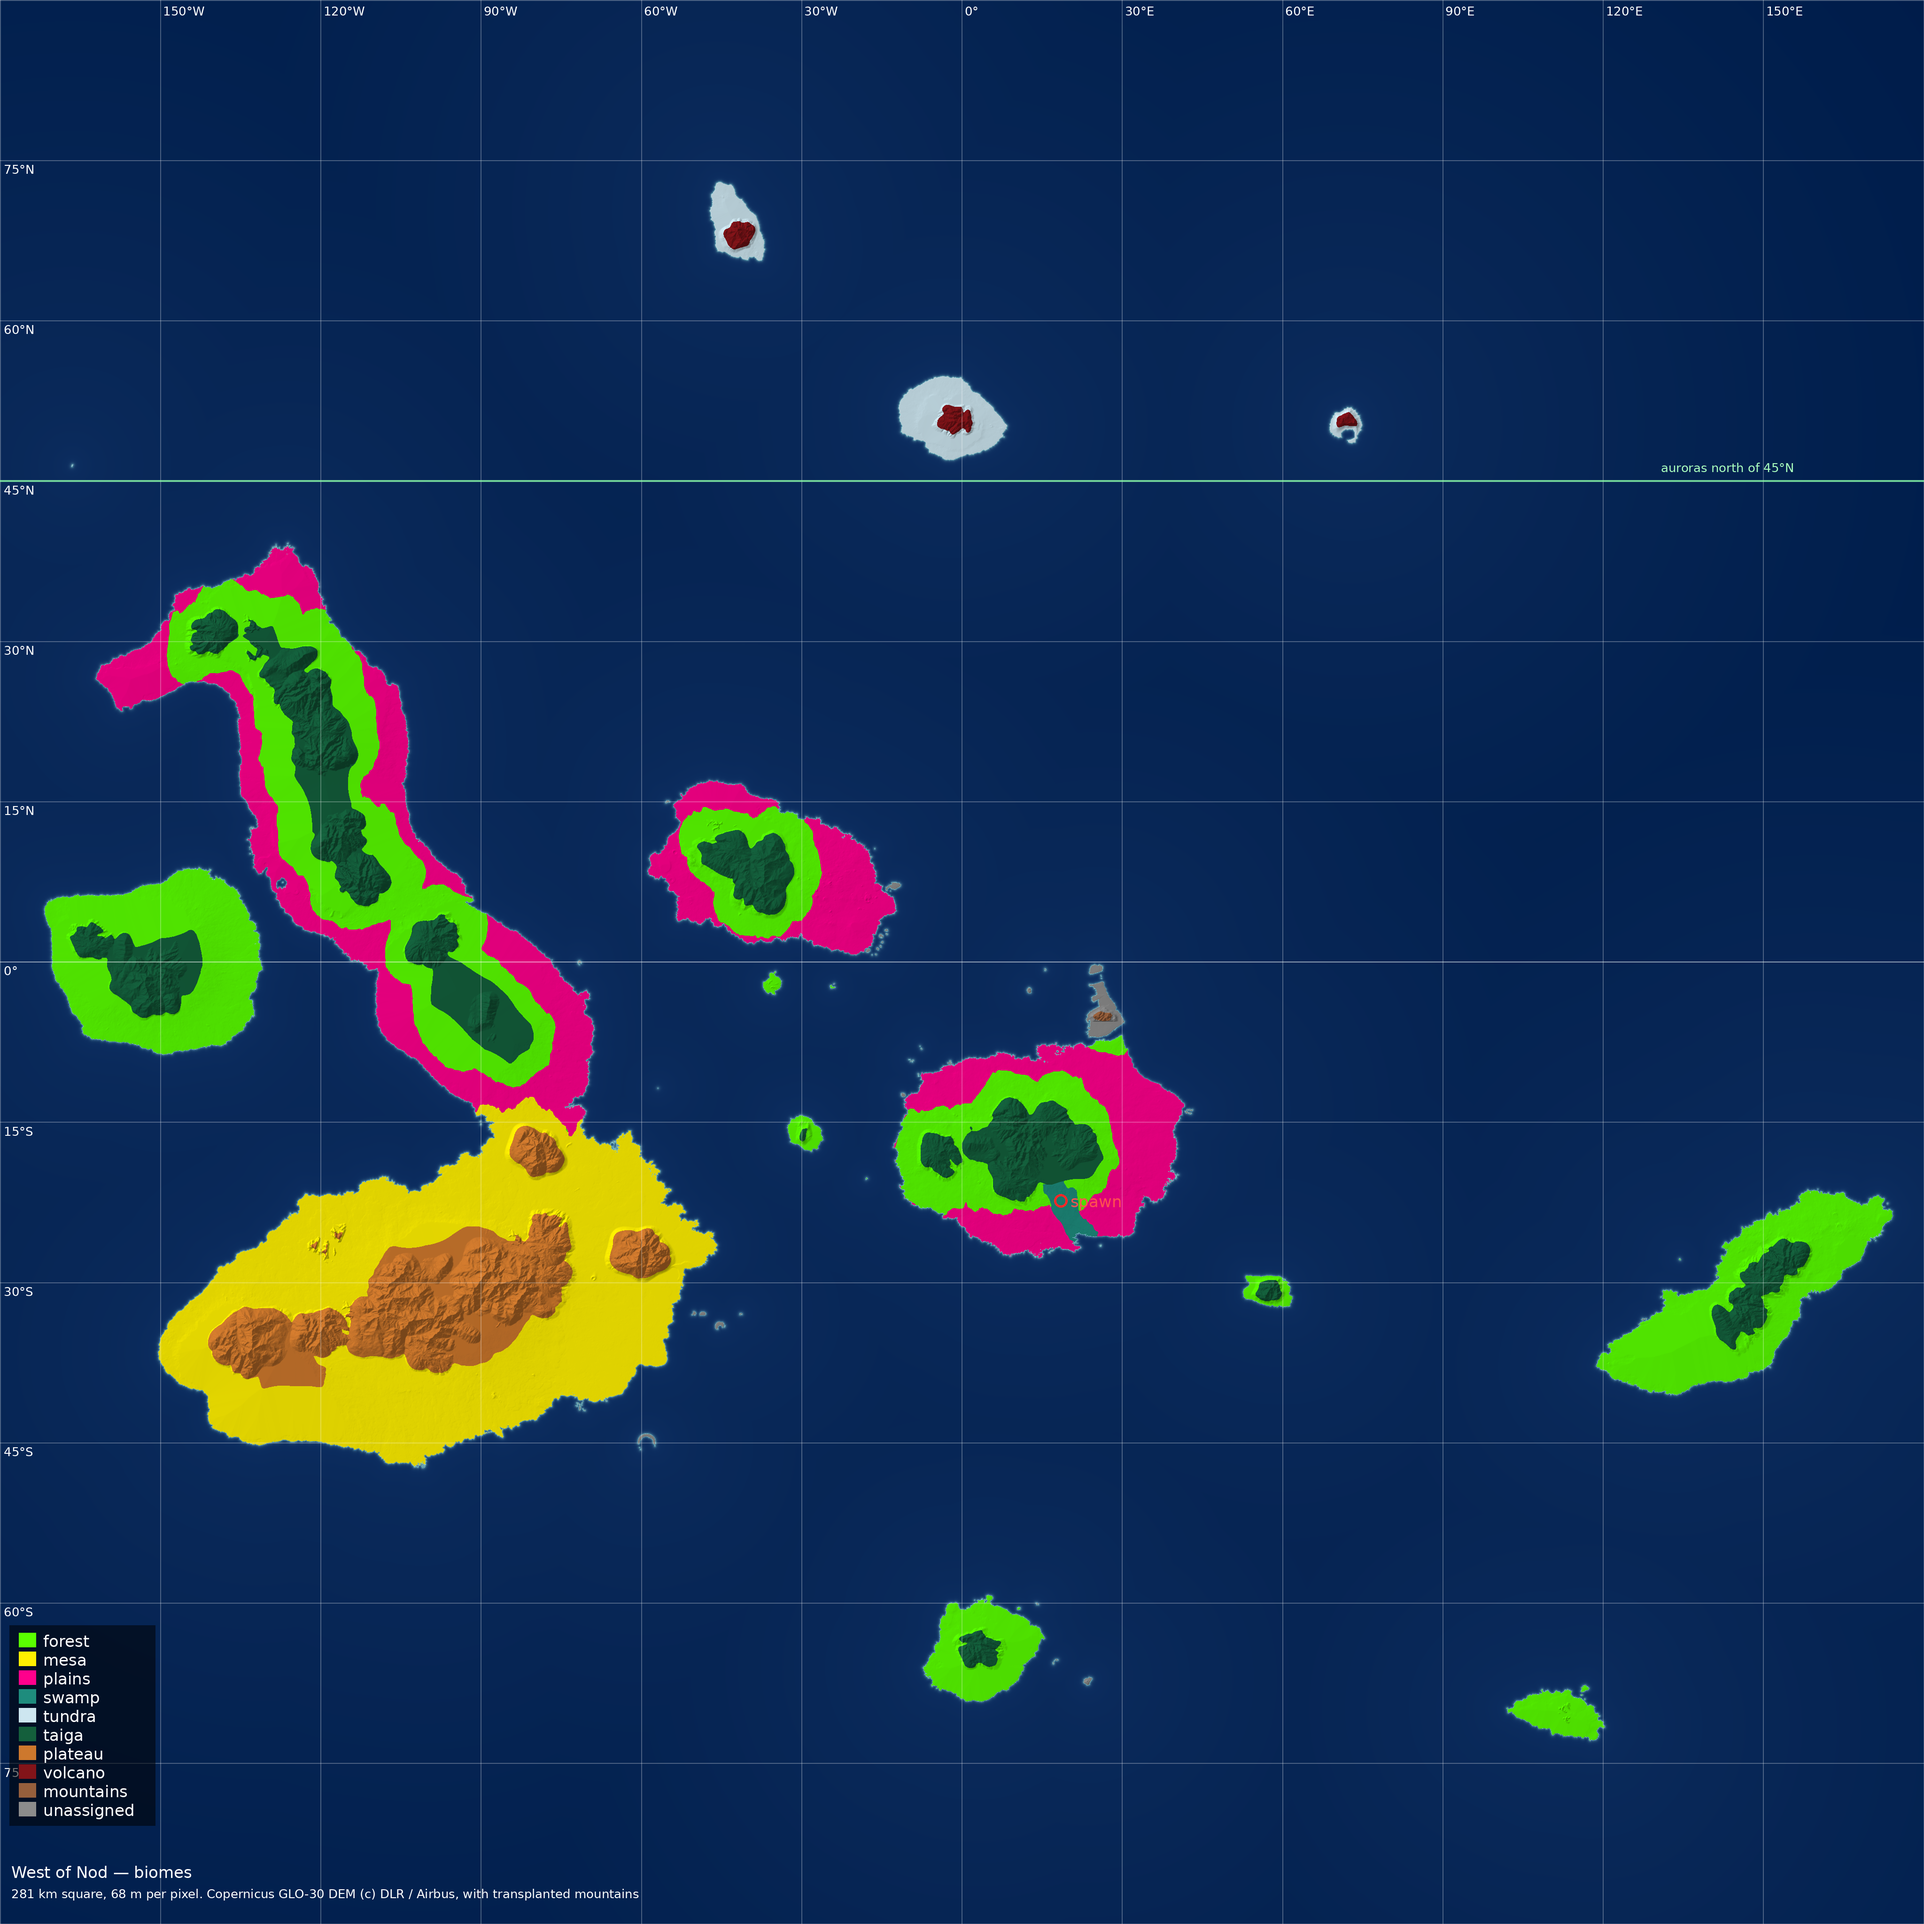
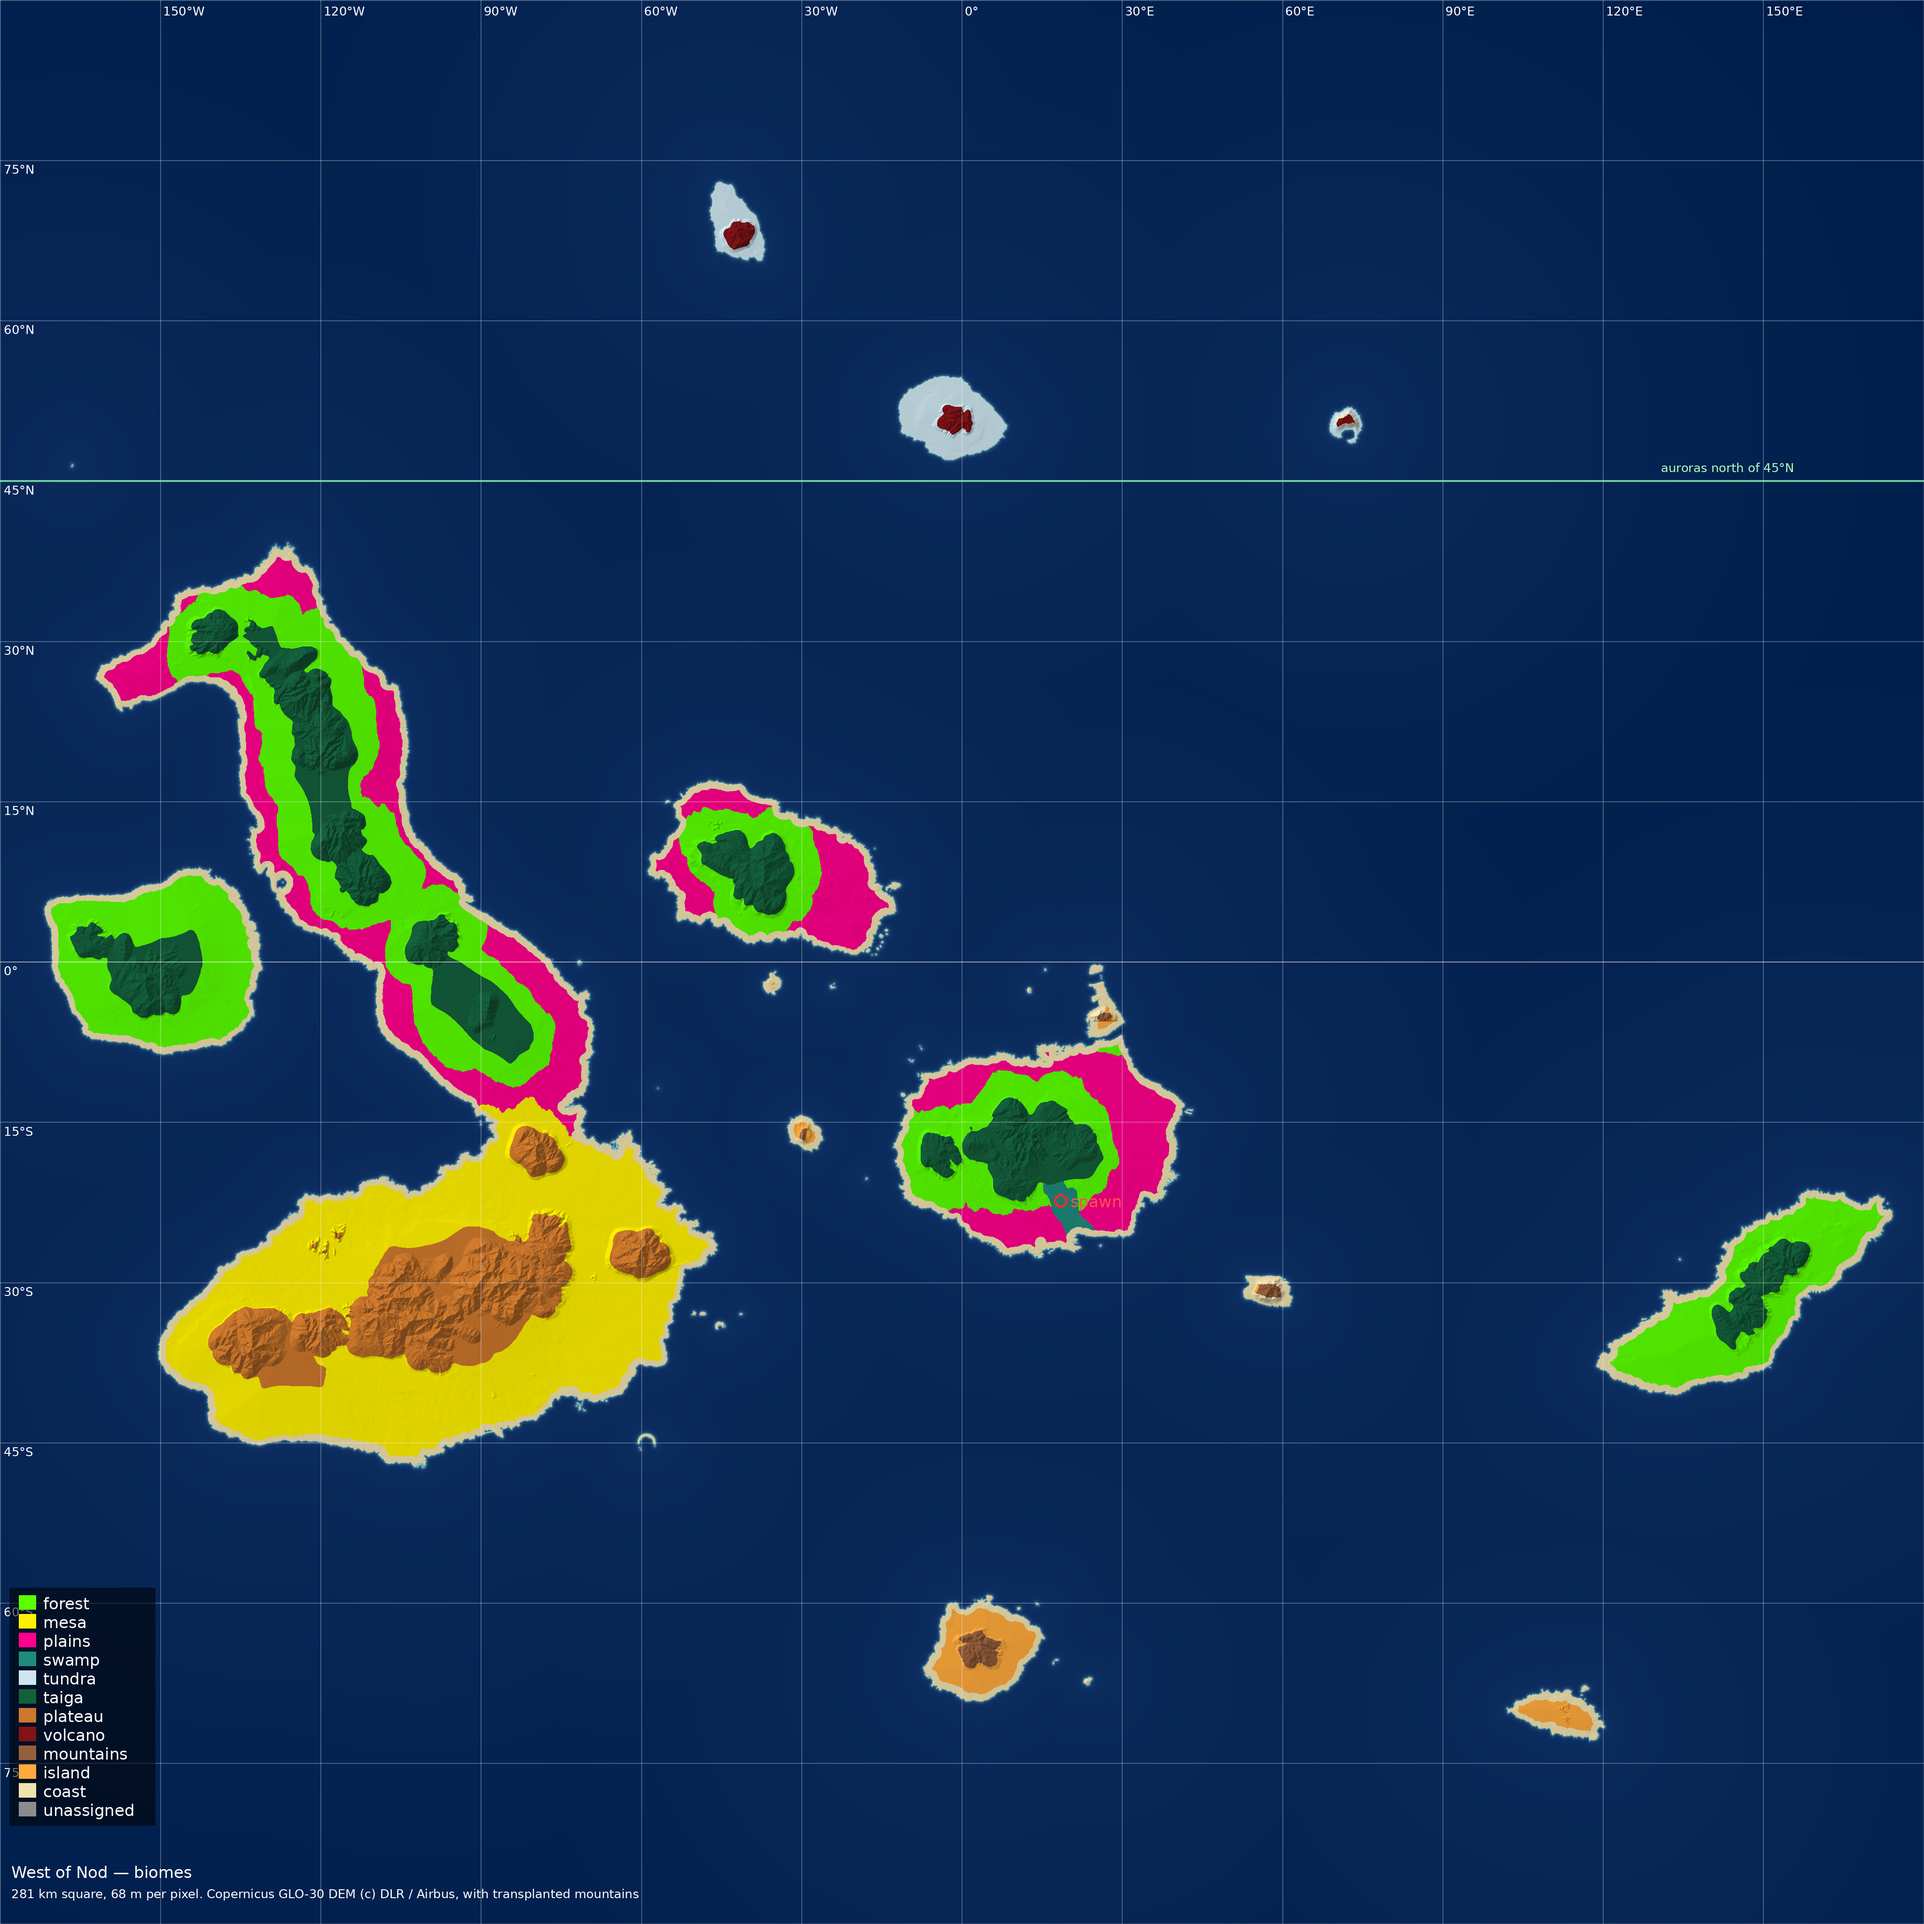
Biome map: island biome for small islands, coast band along every non-tundra shore

diff --git a/tools/map/render_map.py b/tools/map/render_map.py
@@ -38,22 +38,35 @@ def biome_layer(h):
     lab, n = ndimage.label(h > 0.0)
     Y, X = np.mgrid[0:S, 0:S]
     lon, lat = lonlat(X, Y)
-    for k, sl in enumerate(ndimage.find_objects(lab)):
-        comp = lab[sl] == k + 1
-        cy, cx = ndimage.center_of_mass(comp)
+    objs = ndimage.find_objects(lab)
+    sizes = ndimage.sum(np.ones_like(lab), lab, range(1, n + 1))
+    # which island each landmass is
+    named = {}
+    for k, sl in enumerate(objs):
+        cy, cx = ndimage.center_of_mass(lab[sl] == k + 1)
         clon, clat = lonlat(cx + sl[1].start, cy + sl[0].start)
-        best, rule = biomes.MATCH_DEG, None
+        best = biomes.MATCH_DEG
         for name, ((ilon, ilat), r) in biomes.ISLANDS.items():
             d = ((clon - ilon) ** 2 + (clat - ilat) ** 2) ** 0.5
             if d < best:
-                best, rule = d, r
-        if rule is None:
+                best, named[k] = d, name
+    ref = [k for k, nm in named.items() if nm == biomes.SMALL_BELOW]
+    small_below = sizes[ref[0]] if ref else 0
+    for k, sl in enumerate(objs):
+        comp = lab[sl] == k + 1
+        if sizes[k] < small_below:
+            rule = lambda lo, la, km: biomes.ISLAND
+        elif k in named:
+            rule = biomes.ISLANDS[named[k]][1]
+        else:
             rule = lambda lo, la, km: None
         sub = out[sl]
         for yy, xx in zip(*np.nonzero(comp)):
             lo, la = lon[sl][yy, xx], lat[sl][yy, xx]
             if biomes.tundra(lo, la):
                 b = biomes.TUNDRA
+            elif sizes[k] < small_below:
+                b = biomes.ISLAND
             elif biomes.swamp(lo, la):
                 b = biomes.SWAMP
             else:
@@ -73,6 +86,12 @@ def biome_layer(h):
         if around.size:
             kind = biomes.MOUNTAIN_BY_SURROUNDINGS.get(names[np.bincount(around).argmax()], biomes.MOUNTAINS)
         out[grow][comp] = names.index(kind)
+    # the coast: a band along every shore that isn't tundra (over everything)
+    sea_km = ndimage.distance_transform_edt(h > 0.0) * (281.0 / S)
+    band = (h > 0.0) & (sea_km < biomes.COAST_KM * 1.6) & (out != names.index(biomes.TUNDRA))
+    for yy, xx in zip(*np.nonzero(band)):
+        if sea_km[yy, xx] + biomes.fractal(lon[yy, xx], lat[yy, xx], 9.0) * 0.12 < biomes.COAST_KM:
+            out[yy, xx] = names.index(biomes.COAST)
     return out
 
 
@@ -137,8 +156,8 @@ def main():
     dr.ellipse([px - 14, pz - 14, px + 14, pz + 14], outline=(255, 40, 40, 255), width=5)
     dr.text((px + 20, pz - 18), "spawn", font=f, fill=(255, 80, 80, 255))
     if mode_biomes:
-        y = S - 620
-        dr.rectangle([20, y - 16, 330, y + 410], fill=(0, 0, 0, 140))
+        y = S - 700
+        dr.rectangle([20, y - 16, 330, y + 490], fill=(0, 0, 0, 140))
         for i, (name, rgb) in enumerate(list(biomes.COLOURS.items()) + [("unassigned", (140, 140, 140))]):
             dr.rectangle([40, y + i * 40, 76, y + i * 40 + 30], fill=rgb + (255,))
             dr.text((92, y + i * 40 - 2), name, font=f, fill=(255, 255, 255, 240))

diff --git a/tools/map/biomes.py b/tools/map/biomes.py
@@ -8,10 +8,14 @@ lines split it. Islands not listed (the three northern ones, Baltra and the
 Seymours, the islets) have no biome yet.
 """
 FOREST, MESA, PLAINS, SWAMP, TUNDRA = "forest", "mesa", "plains", "swamp", "tundra"
+ISLAND, COAST = "island", "coast"
 TAIGA, PLATEAU, VOLCANO, MOUNTAINS = "taiga", "plateau", "volcano", "mountains"
 COLOURS = {FOREST: (90, 255, 0), MESA: (255, 240, 0), PLAINS: (255, 0, 140), SWAMP: (30, 140, 125),
            TUNDRA: (205, 230, 240), TAIGA: (20, 95, 60), PLATEAU: (205, 120, 45), VOLCANO: (130, 20, 25),
-           MOUNTAINS: (150, 95, 60)}
+           MOUNTAINS: (150, 95, 60), ISLAND: (255, 170, 60), COAST: (240, 225, 175)}
+# Every island smaller than this one is an "island" biome as a whole.
+SMALL_BELOW = "San Cristobal"
+COAST_KM = 0.9   # the coast: a band this wide along every shore (not tundra), edge fractal
 # Mountains take their biome from what surrounds them (the most common biome
 # in a ring round each range): plains, forest or swamp make taiga; mesa, a
 # plateau; tundra, a volcano. Ranges with nothing assigned round them stay
